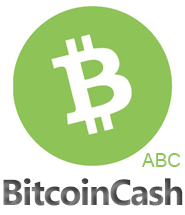
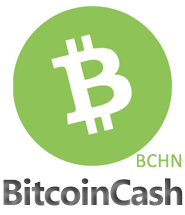
Version 2.2.2
Support Bitcoin Cash BCHN - https://bitcoincashnode.org

Changed region(s): [[0.7297, 0.6977, 1.0, 0.7814]]

diff --git a/js/_source/support.js b/js/_source/support.js
@@ -4,7 +4,7 @@
 	* @category    Javascript
 	* @website     https://gourl.io   
 	* @api         https://gourl.io/api.html     
-	* @version     2.2.1
+	* @version     2.2.2
 	*/
 	
 	/**

diff --git a/js/_source/ajax.js b/js/_source/ajax.js
@@ -4,7 +4,7 @@
 	* @category    Javascript
 	* @website     https://gourl.io
 	* @api         https://gourl.io/api.html
-	* @version     2.2.1
+	* @version     2.2.2
 	*/
 	
 	/**

diff --git a/js/_source/cryptobox.js b/js/_source/cryptobox.js
@@ -4,7 +4,7 @@
 	* @category    Javascript
 	* @website     https://gourl.io
 	* @api         https://gourl.io/api.html
-	* @version     2.2.1
+	* @version     2.2.2
 	*/
 
 	/**

diff --git a/lib/cryptobox.class.php b/lib/cryptobox.class.php
@@ -15,7 +15,7 @@
  * @example     https://gourl.io/lib/examples/example_customize_box.php    <----
  * @gitHub  	https://github.com/cryptoapi/Payment-Gateway
  * @license 	Free GPLv2
- * @version     2.2.1
+ * @version     2.2.2
  *
  *
  *  CLASS CRYPTOBOX - LIST OF METHODS:
@@ -82,7 +82,7 @@ if (!CRYPTOBOX_WORDPRESS) { // Pure PHP
 elseif (!defined('ABSPATH')) exit; // Wordpress
 
 
-define("CRYPTOBOX_VERSION", "2.2.1");
+define("CRYPTOBOX_VERSION", "2.2.2");
 
 // GoUrl supported crypto currencies
 define("CRYPTOBOX_COINS", json_encode(array('bitcoin', 'bitcoincash', 'bitcoinsv', 'litecoin', 'dash', 'dogecoin', 'speedcoin', 'reddcoin', 'potcoin', 'feathercoin', 'vertcoin', 'peercoin', 'monetaryunit', 'universalcurrency')));

diff --git a/lib/cryptobox.callback.php b/lib/cryptobox.callback.php
@@ -11,7 +11,7 @@
  * @copyright   2014-2020 Delta Consultants
  * @category    Libraries
  * @website     https://gourl.io
- * @version     2.2.1
+ * @version     2.2.2
  *
  *
  * This file processes call-backs from Cryptocoin Payment Box server when new payment

diff --git a/readme.md b/readme.md
@@ -2,7 +2,7 @@
 GoUrl.io Cryptocoin Payment Gateway API
 -----------------------------------------
 
-Version 2.2.1
+Version 2.2.2
 
 **Accept Bitcoin, Bitcoin Cash, Bitcoin SV, Litecoin, Dash, Dogecoin, Speedcoin, Reddcoin, Potcoin, Feathercoin, Vertcoin, Peercoin, UniversalCurrency, MonetaryUnit Payments Online on your website**
 
